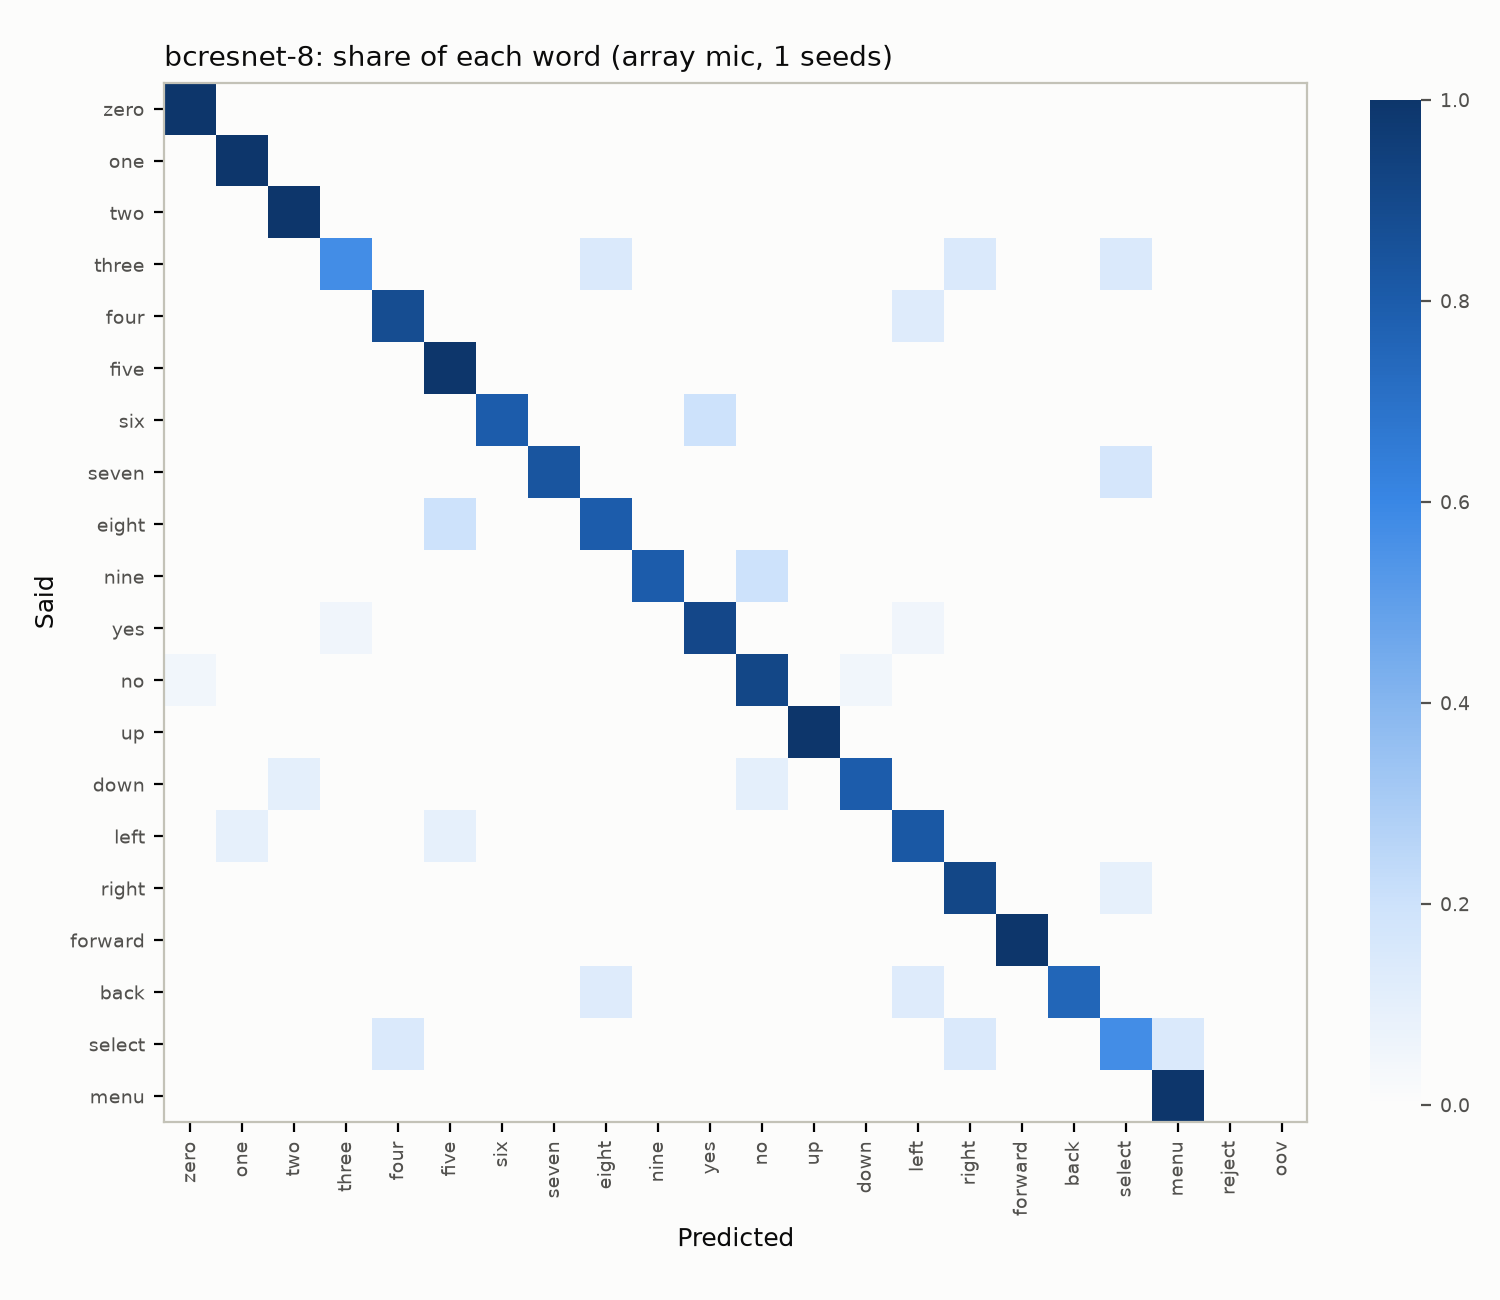
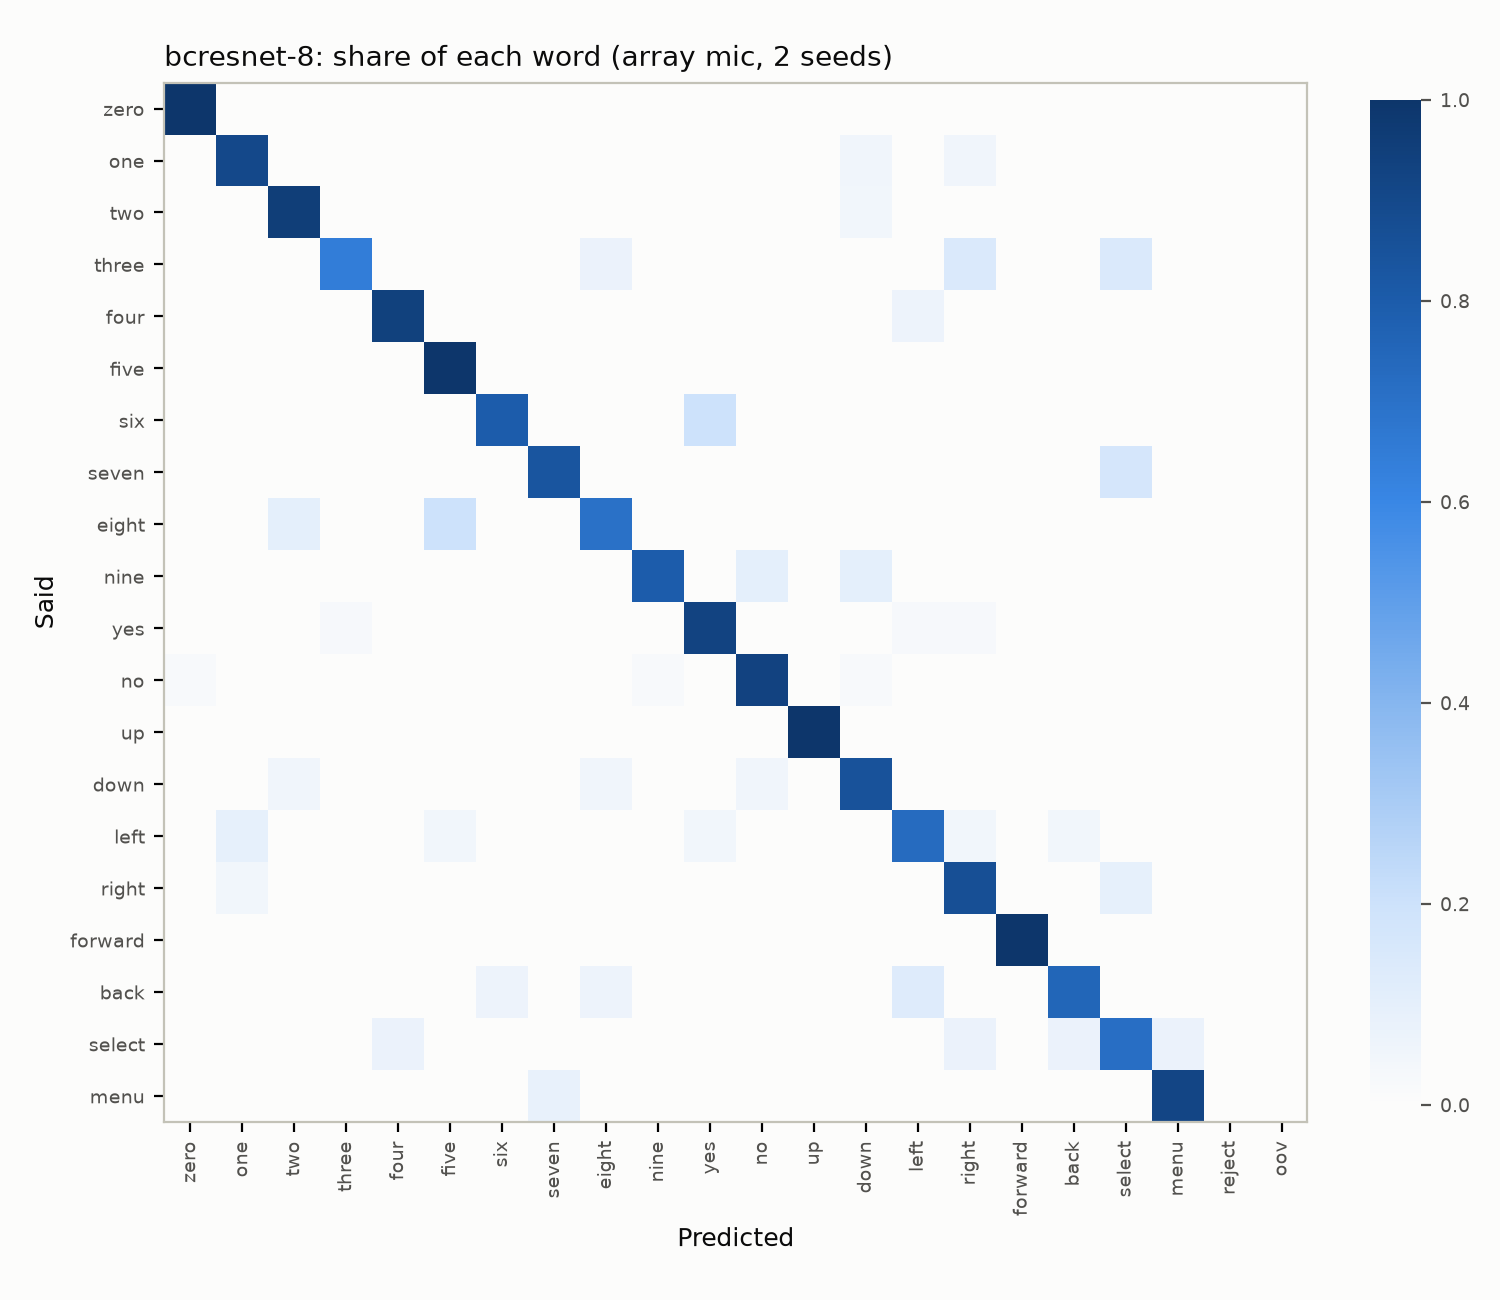
docs: report BC-ResNet results over seeds 0 and 1
Regenerate the step 3 report with two seeds per width and update the
README: BC-ResNet-8 is now 86.5% (was 88.4% on seed 0), widths 2-8 are
within 1.1 points of each other, and the table gains a seed std column.

diff --git a/README.md b/README.md
@@ -1,10 +1,11 @@
 # Dysarthric Voice Command Classifier
 
 A **323k-parameter keyword spotter** (BC-ResNet-8) recognizes 20 voice commands
-from **dysarthric speakers it never trained on** with **88% accuracy**. Zero-shot
+from **dysarthric speakers it never trained on** with **87% accuracy**. Zero-shot
 Parakeet-TDT-0.6B scores 71% and Whisper large-v3 scores 66%, and Parakeet has
-**about 1,900× more parameters**. The smallest width, BC-ResNet-1, has 9.5k
-parameters and still reaches 84%.
+**about 1,900× more parameters**. Beyond about 28k parameters, width stops helping:
+BC-ResNet-2 (27.8k) scores 87.6%, and the smallest width, BC-ResNet-1 (9.5k), still
+reaches 83.5%.
 
 ![Accuracy vs. model size](outputs/step3-bcresnet/accuracy_vs_params.png)
 
@@ -22,26 +23,29 @@ set of commands.
 
 TORGO, 8 dysarthric speakers, each held out in turn (leave-one-speaker-out). Accuracy
 is computed per speaker and then averaged over speakers, on the array microphone,
-with a 95% bootstrap interval over speakers. BC-ResNet numbers are seed 0; more seeds
-are training.
+with a 95% bootstrap interval over speakers. BC-ResNet numbers are the mean of 2 seeds,
+± their standard deviation; a third seed is training.
 
-| Model | Params | MACs / 2 s | Accuracy | 95% CI | Severe (4 speakers) | Mild (3 speakers) |
-|---|---|---|---|---|---|---|
-| Whisper large-v3 (zero-shot) | 1.54B | 1.3T | 66.3% | [53.6, 80.2] | 54.1% | 89.7% |
-| Parakeet-TDT-0.6B-v3 (zero-shot) | 627M | 16.7G | 70.6% | [59.0, 83.8] | 56.2% | 91.2% |
-| BC-ResNet-1 | 9.5k | 4.9M | 84.2% | [76.9, 91.8] | 80.3% | 91.7% |
-| BC-ResNet-2 | 27.8k | 14.6M | 87.1% | [82.3, 92.2] | 82.2% | 92.9% |
-| BC-ResNet-3 | 54.9k | 28.9M | 87.7% | [81.2, 94.2] | 84.3% | 91.9% |
-| **BC-ResNet-8** | **323k** | **171M** | **88.4%** | [81.9, 95.1] | 81.2% | 94.1% |
+| Model | Params | MACs / 2 s | Accuracy | ± seed std | 95% CI | Severe (4 speakers) | Mild (3 speakers) |
+|---|---|---|---|---|---|---|---|
+| Whisper large-v3 (zero-shot) | 1.54B | 1.3T | 66.3% | — | [53.6, 80.2] | 54.1% | 89.7% |
+| Parakeet-TDT-0.6B-v3 (zero-shot) | 627M | 16.7G | 70.6% | — | [59.0, 83.8] | 56.2% | 91.2% |
+| BC-ResNet-1 | 9.5k | 4.9M | 83.5% | 1.0 | [76.6, 90.0] | 78.2% | 90.6% |
+| BC-ResNet-2 | 27.8k | 14.6M | 87.6% | 0.8 | [82.9, 92.7] | 84.4% | 93.4% |
+| BC-ResNet-3 | 54.9k | 28.9M | 87.2% | 0.8 | [81.2, 93.7] | 83.9% | 92.9% |
+| **BC-ResNet-8** (demo) | **323k** | **171M** | **86.5%** | 2.6 | [80.8, 92.6] | 79.1% | 95.6% |
 
 - **Speaker by speaker**, BC-ResNet-8 beats Parakeet on 6 of 8 speakers and ties on the
-  other 2 (two mild speakers at 100%). Mean gain: **+17.8 points** [+8.8, +26.9]. It
-  beats Whisper on all 8 speakers (+22.1 points).
-- **The gain is largest where ASR fails:** on the four severe speakers, 81% against 56%.
-- **On the head-mounted microphone**, BC-ResNet-8 still leads at 92.4%, against 75.4% for
-  Whisper and 53.3% for Parakeet.
-- **On typical speech** (Speech Commands v2, 35 words + silence, 2 s window) the same
-  models score 95.1% (BC-ResNet-1) to 98.1% (BC-ResNet-8) before TORGO fine-tuning.
+  other 2 (two mild speakers at 100%). Mean gain: **+15.9 points** [+8.6, +22.8]. It
+  beats Whisper on all 8 speakers (+20.3 points).
+- **The gain is largest where ASR fails:** on the four severe speakers, the four widths
+  score 78–84% against 56% for Parakeet and 54% for Whisper.
+- **Width pays on typical speech, not on dysarthric speech.** On Speech Commands v2
+  (35 words + silence, 2 s window, before TORGO fine-tuning) accuracy rises from 95.1%
+  (BC-ResNet-1) to 98.2% (BC-ResNet-8). On TORGO, BC-ResNet-2, -3 and -8 are within
+  1.1 points of each other, less than the 3.7 points between BC-ResNet-8's two seeds.
+- **On the head-mounted microphone**, every width still leads: 87.2–91.0% (BC-ResNet-8:
+  89.8%), against 75.4% for Whisper and 53.3% for Parakeet.
 
 The comparison is fair to the ASR models in two ways. They hear the same 2 s clip. Each
 transcript is mapped to the nearest of the 20 commands ("lenient" scoring), so near
@@ -59,7 +63,9 @@ subfolder); ASR-only report in [`outputs/step1-asr/`](outputs/step1-asr/).
   anything.
 - **Small test set.** TORGO has 8 dysarthric speakers with 8–34 test clips each (array
   mic), so the intervals are wide.
-- **One seed so far.** Seed-to-seed variation is not yet measured.
+- **Two seeds so far.** One test clip moves a speaker's accuracy by 3–12.5 points, so
+  seeds differ by up to 3.7 points (BC-ResNet-8: 88.4% and 84.7%). The differences
+  between widths 2, 3 and 8 are smaller than that.
 - **Cost is counted, not measured on a device.** MACs exclude the log-Mel front end,
   and Whisper's count includes the padding its encoder needs to reach 30 s. No model
   has been run on a phone or microcontroller yet.
@@ -144,7 +150,7 @@ through:
 - Confidence intervals are bootstrapped over speakers.
 - Models are compared speaker by speaker.
 
-The 88% above is the first trained-model result from that harness.
+The BC-ResNet results above are the first trained-model results from that harness.
 
 ## Supported commands
 

diff --git a/outputs/step3-bcresnet/head-mic/comparisons.md b/outputs/step3-bcresnet/head-mic/comparisons.md
@@ -1,10 +1,10 @@
 | Candidate | Baseline | Better on | Worse on | Tied | Mean gain (pts) | 95% CI (speakers) |
 |---|---|---|---|---|---|---|
-| bcresnet-1 | whisper-large-v3-lenient | 5 of 8 | 1 | 2 | +10.9 | [+3.4, +19.1] |
-| bcresnet-1 | parakeet-tdt-0.6b-v3-lenient | 8 of 8 | 0 | 0 | +33.0 | [+20.4, +45.9] |
-| bcresnet-2 | whisper-large-v3-lenient | 7 of 8 | 1 | 0 | +12.1 | [+5.5, +18.9] |
-| bcresnet-2 | parakeet-tdt-0.6b-v3-lenient | 7 of 8 | 0 | 1 | +34.2 | [+20.0, +49.4] |
-| bcresnet-3 | whisper-large-v3-lenient | 7 of 8 | 0 | 1 | +14.9 | [+8.4, +21.6] |
-| bcresnet-3 | parakeet-tdt-0.6b-v3-lenient | 8 of 8 | 0 | 0 | +37.0 | [+22.7, +52.5] |
-| bcresnet-8 | whisper-large-v3-lenient | 7 of 8 | 0 | 1 | +17.0 | [+9.2, +25.6] |
-| bcresnet-8 | parakeet-tdt-0.6b-v3-lenient | 8 of 8 | 0 | 0 | +39.1 | [+24.8, +54.2] |
+| bcresnet-1 | whisper-large-v3-lenient | 6 of 8 | 2 | 0 | +11.8 | [+3.9, +20.3] |
+| bcresnet-1 | parakeet-tdt-0.6b-v3-lenient | 8 of 8 | 0 | 0 | +33.8 | [+20.9, +46.7] |
+| bcresnet-2 | whisper-large-v3-lenient | 7 of 8 | 1 | 0 | +14.2 | [+6.7, +22.3] |
+| bcresnet-2 | parakeet-tdt-0.6b-v3-lenient | 8 of 8 | 0 | 0 | +36.2 | [+21.6, +51.7] |
+| bcresnet-3 | whisper-large-v3-lenient | 7 of 8 | 0 | 1 | +15.6 | [+9.0, +22.4] |
+| bcresnet-3 | parakeet-tdt-0.6b-v3-lenient | 8 of 8 | 0 | 0 | +37.6 | [+23.5, +52.8] |
+| bcresnet-8 | whisper-large-v3-lenient | 7 of 8 | 0 | 1 | +14.4 | [+7.9, +21.2] |
+| bcresnet-8 | parakeet-tdt-0.6b-v3-lenient | 8 of 8 | 0 | 0 | +36.5 | [+23.5, +50.2] |

diff --git a/outputs/step3-bcresnet/comparisons.md b/outputs/step3-bcresnet/comparisons.md
@@ -1,10 +1,10 @@
 | Candidate | Baseline | Better on | Worse on | Tied | Mean gain (pts) | 95% CI (speakers) |
 |---|---|---|---|---|---|---|
-| bcresnet-1 | whisper-large-v3-lenient | 6 of 8 | 0 | 2 | +18.0 | [+7.6, +29.9] |
-| bcresnet-1 | parakeet-tdt-0.6b-v3-lenient | 6 of 8 | 2 | 0 | +13.6 | [+3.9, +25.6] |
-| bcresnet-2 | whisper-large-v3-lenient | 7 of 8 | 0 | 1 | +20.8 | [+10.5, +31.3] |
-| bcresnet-2 | parakeet-tdt-0.6b-v3-lenient | 6 of 8 | 1 | 1 | +16.4 | [+7.6, +25.3] |
-| bcresnet-3 | whisper-large-v3-lenient | 7 of 8 | 0 | 1 | +21.5 | [+9.6, +34.3] |
-| bcresnet-3 | parakeet-tdt-0.6b-v3-lenient | 6 of 8 | 1 | 1 | +17.1 | [+6.9, +29.0] |
-| bcresnet-8 | whisper-large-v3-lenient | 8 of 8 | 0 | 0 | +22.1 | [+11.1, +34.4] |
-| bcresnet-8 | parakeet-tdt-0.6b-v3-lenient | 6 of 8 | 0 | 2 | +17.8 | [+8.8, +26.9] |
+| bcresnet-1 | whisper-large-v3-lenient | 6 of 8 | 1 | 1 | +17.2 | [+6.6, +28.8] |
+| bcresnet-1 | parakeet-tdt-0.6b-v3-lenient | 6 of 8 | 2 | 0 | +12.9 | [+3.7, +23.7] |
+| bcresnet-2 | whisper-large-v3-lenient | 7 of 8 | 0 | 1 | +21.3 | [+10.8, +31.8] |
+| bcresnet-2 | parakeet-tdt-0.6b-v3-lenient | 6 of 8 | 1 | 1 | +17.0 | [+7.6, +27.1] |
+| bcresnet-3 | whisper-large-v3-lenient | 7 of 8 | 0 | 1 | +20.9 | [+9.9, +32.7] |
+| bcresnet-3 | parakeet-tdt-0.6b-v3-lenient | 6 of 8 | 1 | 1 | +16.5 | [+6.7, +28.1] |
+| bcresnet-8 | whisper-large-v3-lenient | 8 of 8 | 0 | 0 | +20.3 | [+11.3, +29.6] |
+| bcresnet-8 | parakeet-tdt-0.6b-v3-lenient | 6 of 8 | 0 | 2 | +15.9 | [+8.6, +22.8] |

diff --git a/outputs/step3-bcresnet/results.md b/outputs/step3-bcresnet/results.md
@@ -2,7 +2,7 @@
 |---|---|---|---|---|---|---|---|---|---|---|---|---|
 | whisper-large-v3-lenient | 1 | 66.3 | — | [53.6, 80.2] | 54.1 | 44.4 | 89.7 | 95.7 | 1.5G | 1.3T | 2 | encoder padded to 30 s; greedy decode of one clip |
 | parakeet-tdt-0.6b-v3-lenient | 1 | 70.6 | — | [59.0, 83.8] | 56.2 | 66.7 | 91.2 | 92.0 | 627M | 16.7G | 2 | greedy TDT decode of one clip; multilingual, language not forced |
-| bcresnet-1 | 1 | 84.2 | — | [76.9, 91.8] | 80.3 | 77.8 | 91.7 | — | 9.5k | 4.9M | 2 | log-Mel front end not counted |
-| bcresnet-2 | 1 | 87.1 | — | [82.3, 92.2] | 82.2 | 88.9 | 92.9 | — | 27.8k | 14.6M | 2 | log-Mel front end not counted |
-| bcresnet-3 | 1 | 87.7 | — | [81.2, 94.2] | 84.3 | 88.9 | 91.9 | — | 54.9k | 28.9M | 2 | log-Mel front end not counted |
-| bcresnet-8 | 1 | 88.4 | — | [81.9, 95.1] | 81.2 | 100.0 | 94.1 | — | 323k | 171M | 2 | log-Mel front end not counted |
+| bcresnet-1 | 2 | 83.5 | 1.0 | [76.6, 90.0] | 78.2 | 83.3 | 90.6 | — | 9.5k | 4.9M | 2 | log-Mel front end not counted |
+| bcresnet-2 | 2 | 87.6 | 0.8 | [82.9, 92.7] | 84.4 | 83.3 | 93.4 | — | 27.8k | 14.6M | 2 | log-Mel front end not counted |
+| bcresnet-3 | 2 | 87.2 | 0.8 | [81.2, 93.7] | 83.9 | 83.3 | 92.9 | — | 54.9k | 28.9M | 2 | log-Mel front end not counted |
+| bcresnet-8 | 2 | 86.5 | 2.6 | [80.8, 92.6] | 79.1 | 88.9 | 95.6 | — | 323k | 171M | 2 | log-Mel front end not counted |

diff --git a/outputs/step3-bcresnet/head-mic/results.md b/outputs/step3-bcresnet/head-mic/results.md
@@ -2,7 +2,7 @@
 |---|---|---|---|---|---|---|---|---|---|---|---|---|
 | whisper-large-v3-lenient | 1 | 75.4 | — | [64.4, 86.2] | 60.9 | 83.9 | 91.9 | 97.9 | 1.5G | 1.3T | 2 | encoder padded to 30 s; greedy decode of one clip |
 | parakeet-tdt-0.6b-v3-lenient | 1 | 53.3 | — | [37.2, 70.0] | 43.3 | 16.1 | 79.1 | 90.0 | 627M | 16.7G | 2 | greedy TDT decode of one clip; multilingual, language not forced |
-| bcresnet-1 | 1 | 86.3 | — | [80.9, 92.5] | 81.9 | 80.6 | 94.1 | — | 9.5k | 4.9M | 2 | log-Mel front end not counted |
-| bcresnet-2 | 1 | 87.5 | — | [81.1, 93.3] | 81.2 | 93.5 | 93.9 | — | 27.8k | 14.6M | 2 | log-Mel front end not counted |
-| bcresnet-3 | 1 | 90.3 | — | [85.3, 95.2] | 84.4 | 96.8 | 96.1 | — | 54.9k | 28.9M | 2 | log-Mel front end not counted |
-| bcresnet-8 | 1 | 92.4 | — | [86.2, 97.7] | 87.9 | 93.5 | 98.0 | — | 323k | 171M | 2 | log-Mel front end not counted |
+| bcresnet-1 | 2 | 87.2 | 1.2 | [82.3, 92.5] | 82.9 | 80.6 | 95.0 | — | 9.5k | 4.9M | 2 | log-Mel front end not counted |
+| bcresnet-2 | 2 | 89.6 | 2.9 | [84.0, 94.7] | 84.9 | 93.5 | 94.5 | — | 27.8k | 14.6M | 2 | log-Mel front end not counted |
+| bcresnet-3 | 2 | 91.0 | 0.9 | [86.1, 95.6] | 84.9 | 96.8 | 97.1 | — | 54.9k | 28.9M | 2 | log-Mel front end not counted |
+| bcresnet-8 | 2 | 89.8 | 3.7 | [84.0, 95.1] | 84.3 | 90.3 | 97.1 | — | 323k | 171M | 2 | log-Mel front end not counted |
